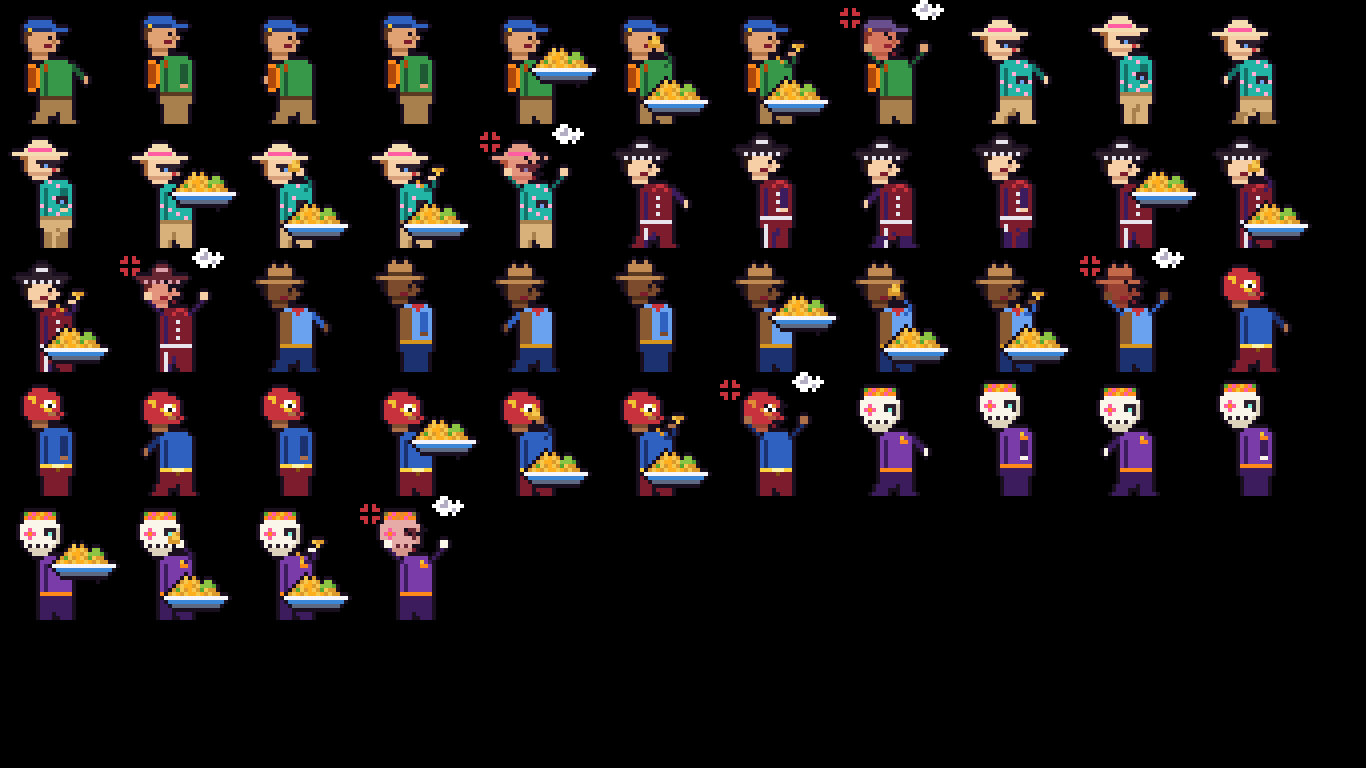
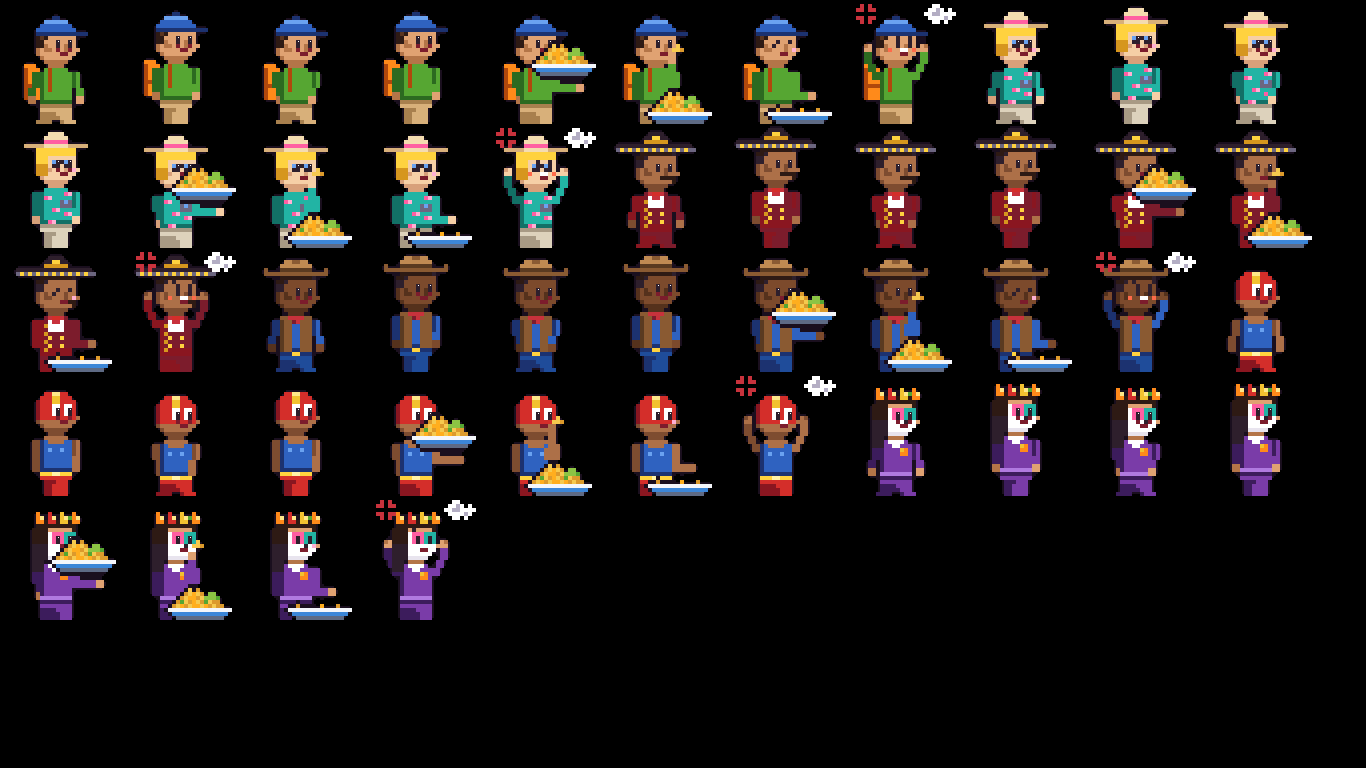
Salsa Slide: redrawn people (heads centred) and How to Play screen

Changed region(s): [[0.0, 0.0, 0.9839, 0.8125]]

diff --git a/games/README.md b/games/README.md
@@ -14,4 +14,4 @@ into the game's folder, so its gfx/, sfx/ and data files resolve relative to it)
 | Core Caving - Boulder Dash style digging: 16 caves + 4 bonus caves, boulders, fireflies, butterflies, magic walls, amoeba | [corecaving/](corecaving/) | `RUN "games/corecaving/corecaving.bas"` |
 | Circuit Quest - Chip's Challenge style puzzles in a silicon lab: 20 levels, keycards and doors, blocks, boots, ice, conveyors, toggle walls, traps, teleports, tanks, bombs, hidden walls | [circuitquest/](circuitquest/) | `RUN "games/circuitquest/circuitquest.bas"` |
 | Crystal Core - Candy Crush style match-3 in a crystal mine: 30 levels, striped, charged and rainbow specials, EASY/NORMAL/HARD | [crystalcore/](crystalcore/) | `RUN "games/crystalcore/crystalcore.bas"` |
-| Salsa Slide - Tapper-style nacho cantina: slide plates down 4 counters, catch the empties, grab tips, Salsa Shuffle bonus every 4th round, EASY/NORMAL/HARD | [salsaslide/](salsaslide/) | `RUN "games/salsaslide/salsaslide.bas"` |
+| Salsa Slide - Tapper-style nacho cantina: slide plates down 4 counters, catch the empties, grab tips, Salsa Shuffle bonus every 4th round, How to Play screen, EASY/NORMAL/HARD | [salsaslide/](salsaslide/) | `RUN "games/salsaslide/salsaslide.bas"` |
